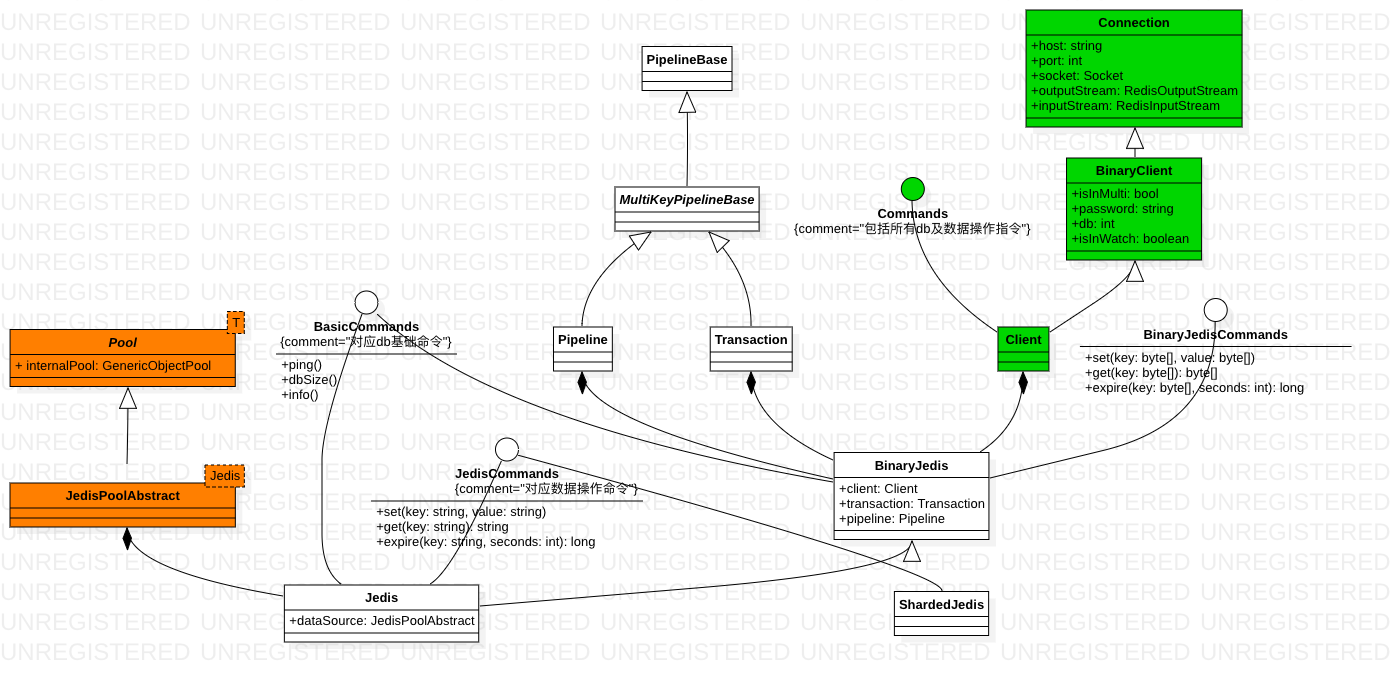
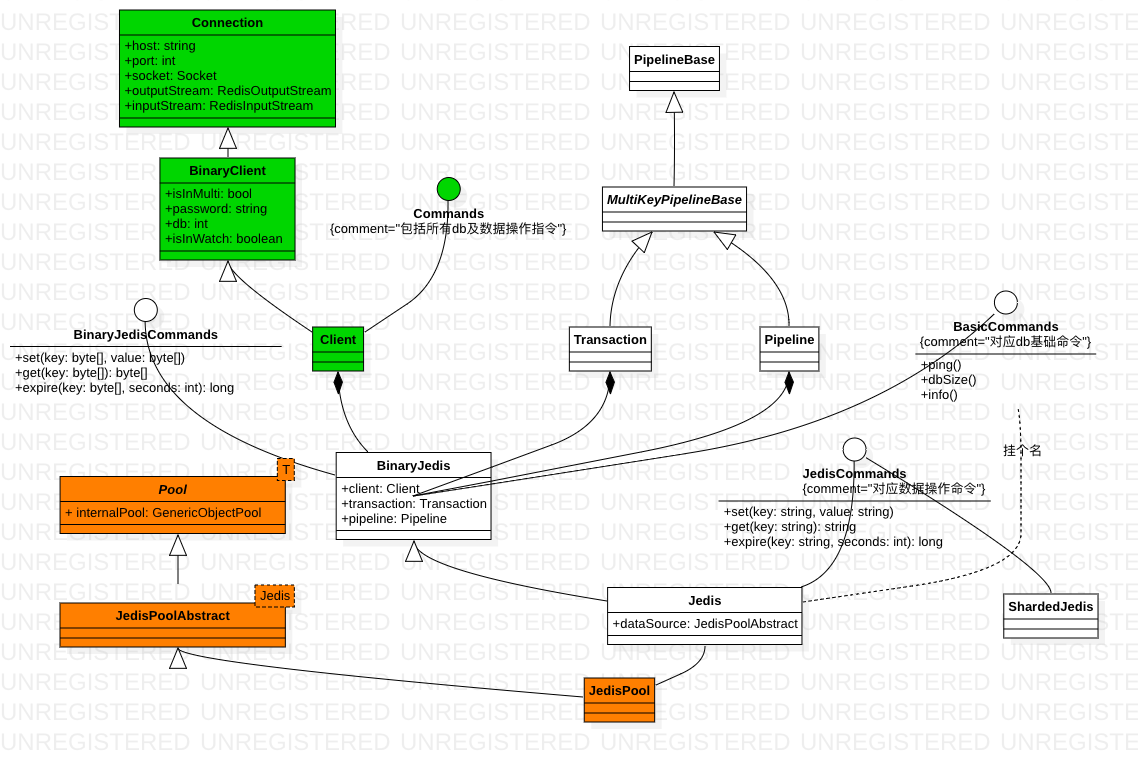
[fix]add doc

diff --git a/_posts/Technology/Other/2019-01-24-source_parse.md b/_posts/Technology/Other/2019-01-24-source_parse.md
@@ -47,9 +47,15 @@ keywords: 源码分析
 ### 分析过程
 
 1. 多画图，相对文字而言，图的信息密度更高
-1. 类图，所有用面向对象思想实现的框架都可以画类图，类图反映了代码的组织。一个框架如果代码量很大的话，一定要解决一个事情，即代码和数据是如何分散在各个小单元的，类图通常反应了作者对框架所解决问题的逻辑抽象。
-2. 序列图。包括初始化流程，和主干流程。 对源码分析进行整理浓缩，跟踪主要路径，**直到细化到你已经熟悉的知识**。以java为例，一个序列图的尾部，通常是类似java/io 等已熟知的类。
+1. 类图，所有用面向对象思想实现的框架都可以画类图，类图反映了代码的组织。一个框架如果代码量很大的话，一定要解决一个事情，即代码和数据是如何分散在各个小单元的，类图通常反应了作者对框架所解决问题的逻辑抽象。画类图有几个注意点
+
+    1. 抓大放小
+    2. 因为Java 各种设计模式，表象跟意图经常错位。比如A 有一个B成员，有时不能画为 A和B 是聚合关系
+    3. 同一个意图的几个类，建议标上一致的背景色，突出功能域
+2. 序列图。包括初始化流程，和主干流程。 对源码分析进行整理浓缩，跟踪主要路径，**直到打通到你已经熟悉的知识**。以java为例，一个序列图的尾部，通常是类似java/io 等已熟知的类。
 3. 重要的不是画这些图，而是以这些图为抓手，**串一个下整个过程，分析的过程才是最重要的，切忌把画图手段当成目的**。找到感觉，积累成功的心理体验。
+
+类图和序列图系统分析 一个框架示例 [Jedis源码分析](http://qiankunli.github.io/2016/06/07/jedis_source.html)
 
 ### 一些技巧
 

diff --git a/_posts/Architecture/2016-06-17-pool.md b/_posts/Architecture/2016-06-17-pool.md
@@ -10,6 +10,9 @@ keywords: mysql binlog
 
 ## 简介
 
+* TOC
+{:toc}
+
 我们都有听过单例模式，即通过控制对象的创建（构造函数私有化）将对象的个数限制为1个。实际场景下，单例的场景毕竟是有限的。
 
 在java程序中，要提高应用的性能，有以下两类情形
@@ -44,10 +47,7 @@ keywords: mysql binlog
 
 netty 中涉及到了 线程池管理、连接池管理 以及 如何将这类操作 异步化。当然，一些略复杂，我们从 c3p0 中应该可以学习到，连接池管理 等
 
-fututre.get(timeout) 实现的本质是啥？
-
-
-## 内存管理
+## 内存池/内存管理
 
 1. 哪些有用，哪些要回收（自动判断/手动标记）
 2. 碎片整理
@@ -81,3 +81,9 @@ fututre.get(timeout) 实现的本质是啥？
 
 [Redis源码分析](http://qiankunli.github.io/2019/04/20/redis_source.html)
 
+## 池化的粒度
+
+可以直接对资源池化，比如Socket/Thread（Java语言自带的线程池），也可以对资源封装过的对象进行池化，比如
+
+1. Jedis 对Socket 封装了Redis通信协议，然后JedisPool 对Jedis 进行池化 [Jedis源码分析](http://qiankunli.github.io/2016/06/07/jedis_source.html)
+2. EventLoop 对Thread 进行封装，然后EventLoopGroup 对 EventLoop 进行池化

diff --git a/_posts/Technology/Java/2016-06-07-jedis_source.md b/_posts/Technology/Java/2016-06-07-jedis_source.md
@@ -29,10 +29,13 @@ keywords: jedis,spring-data-redis
 
 ![](/public/upload/java/jedis_sequence_diagram.png)
 
+1. JedisPool 池化了 Jedis，是Jedis 池的操作入口。池化的不是“连接”，而是整个Jedis 对象。
+2. Jedis 作为 单连接操作入口，提供了操作API
+3. BinaryJedis 实际干活儿，聚合了Client、Transaction、Pipeline 等能力对象，Client 基于Socket 负责实际的网络访问。
 
 jedis协议支持的操作，称为Command，反映在代码中，抽象出了一系列的Command接口，负责不同的操作。
 
-- BasicCommands，比如ping，save，bgsave等
+- BasicCommands，比如ping，save，bgsave等，方法一般没有参数，或参数跟数据内容无关
 - BinaryJedisCommands，负责各种数据结构的set和get
 - MultiKeyBinaryCommands，参数为多个key的命令
 

diff --git a/_posts/Architecture/2019-04-20-network_communication_protocol.md b/_posts/Architecture/2019-04-20-network_communication_protocol.md
@@ -8,7 +8,7 @@ keywords: project
 
 ---
 
-## 简介（持续更新）
+## 简介
 
 * TOC
 {:toc}
